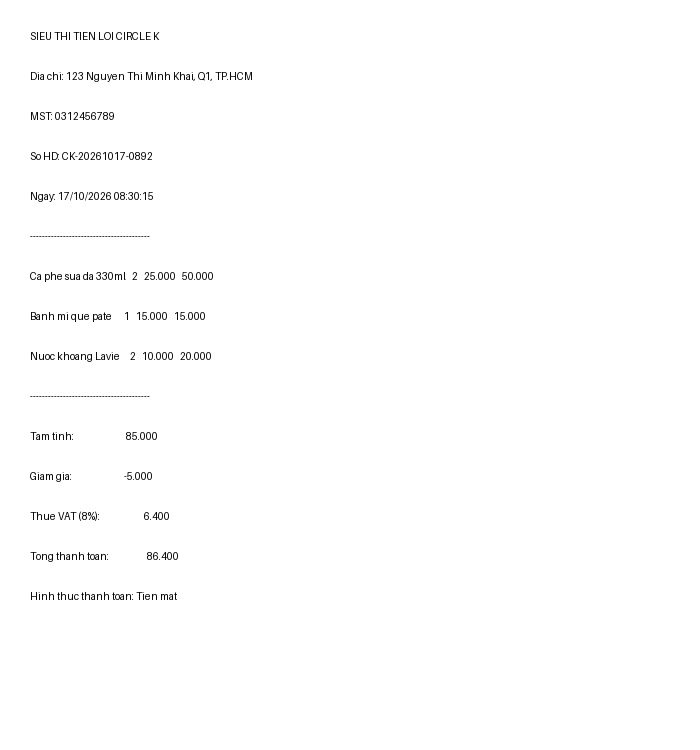
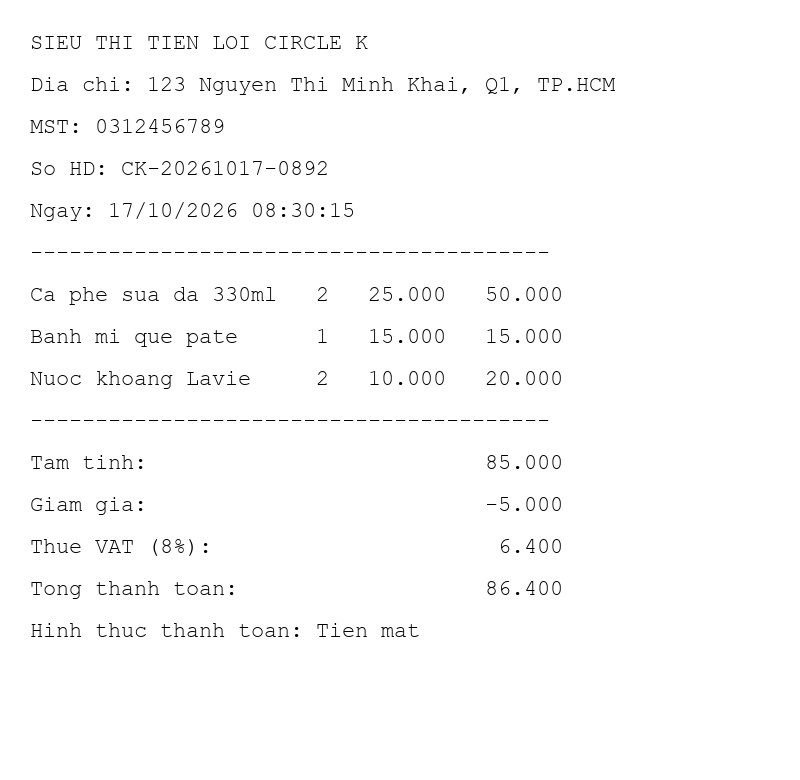
fix(ocr,extraction): fix Windows tessdata path quoting, custom_cmd resolution, and unaccented regex matching

diff --git a/src/receipt_extraction/extraction/regex_baseline.py b/src/receipt_extraction/extraction/regex_baseline.py
@@ -67,14 +67,14 @@ class RegexBaselineExtractor(BaseExtractor):
 
         # 1. Trích xuất Tên cửa hàng (thường là dòng 1 hoặc 2 không chứa số điện thoại / địa chỉ)
         for line in lines[:4]:
-            if not any(k in line.lower() for k in ["địa chỉ", "đ/c", "tel", "sđt", "hotline", "mst", "ngày"]):
+            if not any(k in line.lower() for k in ["địa chỉ", "dia chi", "đ/c", "d/c", "tel", "sđt", "sdt", "hotline", "mst", "ngày", "ngay"]):
                 if len(line) >= 3 and not line.isdigit():
                     data.seller_name = line
                     evidence["seller_name"] = True
                     break
 
         # 2. Trích xuất Địa chỉ
-        addr_pattern = re.compile(r"(?:Địa\s*chỉ|Đ/c|ĐC)\s*[:\.]?\s*(.+)", re.IGNORECASE)
+        addr_pattern = re.compile(r"(?:Địa\s*chỉ|Dia\s*chi|Đ/c|D/c|ĐC)\s*[:\.]?\s*(.+)", re.IGNORECASE)
         for line in lines:
             m = addr_pattern.search(line)
             if m:
@@ -83,7 +83,7 @@ class RegexBaselineExtractor(BaseExtractor):
                 break
 
         # 3. Trích xuất Mã số thuế (10 hoặc 13 chữ số)
-        tax_pattern = re.compile(r"(?:MST|Mã\s*số\s*thuế|M\.S\.T)\s*[:\.]?\s*([0-9]{10}(?:-[0-9]{3})?)", re.IGNORECASE)
+        tax_pattern = re.compile(r"(?:MST|Mã\s*số\s*thuế|Ma\s*so\s*thue|M\.S\.T)\s*[:\.]?\s*([0-9]{10}(?:-[0-9]{3})?)", re.IGNORECASE)
         for line in lines:
             m = tax_pattern.search(line)
             if m:
@@ -92,7 +92,7 @@ class RegexBaselineExtractor(BaseExtractor):
                 break
 
         # 4. Trích xuất Số hóa đơn
-        inv_pattern = re.compile(r"(?:Số\s*(?:HĐ|hóa\s*đơn|phiếu)|HĐ\s*số|Invoice\s*No)\s*[:\.]?\s*([A-Za-z0-9\-_/]+)", re.IGNORECASE)
+        inv_pattern = re.compile(r"(?:Số\s*(?:HĐ|hóa\s*đơn|phiếu)|So\s*(?:HD|hoa\s*don|phieu)|HĐ\s*số|HD\s*so|Invoice\s*No)\s*[:\.]?\s*([A-Za-z0-9\-_/]+)", re.IGNORECASE)
         for line in lines:
             m = inv_pattern.search(line)
             if m:
@@ -116,7 +116,7 @@ class RegexBaselineExtractor(BaseExtractor):
                 break
 
         # 6. Trích xuất Tạm tính
-        subtotal_pattern = re.compile(r"(?:Tạm\s*tính|Cộng\s*tiền\s*hàng|Tiền\s*hàng|Subtotal)[^:\d\n]*[:\.]?\s*([\-]?[\d\.,]+(?:\s*[đĐkKvVnNdD])?)", re.IGNORECASE)
+        subtotal_pattern = re.compile(r"(?:Tạm\s*tính|Tam\s*tinh|Cộng\s*tiền\s*hàng|Cong\s*tien\s*hang|Tiền\s*hàng|Tien\s*hang|Subtotal)[^:\d\n]*[:\.]?\s*([\-]?[\d\.,]+(?:\s*[đĐkKvVnNdD])?)", re.IGNORECASE)
         for line in lines:
             m = subtotal_pattern.search(line)
             if m:
@@ -127,7 +127,7 @@ class RegexBaselineExtractor(BaseExtractor):
                     break
 
         # 7. Trích xuất Giảm giá
-        discount_pattern = re.compile(r"(?:Giảm\s*giá|Chiết\s*khấu|Khuyến\s*mãi|Voucher|Discount)[^:\d\n]*[:\.]?\s*([\-]?[\d\.,]+(?:\s*[đĐkKvVnNdD])?)", re.IGNORECASE)
+        discount_pattern = re.compile(r"(?:Giảm\s*giá|Giam\s*gia|Chiết\s*khấu|Chiet\s*khau|Khuyến\s*mãi|Khuyen\s*mai|Voucher|Discount)[^:\d\n]*[:\.]?\s*([\-]?[\d\.,]+(?:\s*[đĐkKvVnNdD])?)", re.IGNORECASE)
         for line in lines:
             m = discount_pattern.search(line)
             if m:
@@ -139,7 +139,7 @@ class RegexBaselineExtractor(BaseExtractor):
 
         # 8. Trích xuất VAT
         vat_pattern = re.compile(
-            r"(?:Thuế\s*VAT|VAT|Thuế\s*GTGT)(?:\s*\(?\s*\d+(?:[\.,]\d+)?\s*%\s*\)?)?[^:\d\n]*[:\.]?\s*([\-]?[\d\.,]+(?:\s*[đĐkKvVnNdD])?)",
+            r"(?:Thuế\s*VAT|Thue\s*VAT|VAT|Thuế\s*GTGT|Thue\s*GTGT)(?:\s*\(?\s*\d+(?:[\.,]\d+)?\s*%\s*\)?)?[^:\d\n]*[:\.]?\s*([\-]?[\d\.,]+(?:\s*[đĐkKvVnNdD])?)",
             re.IGNORECASE
         )
         for line in lines:
@@ -153,7 +153,7 @@ class RegexBaselineExtractor(BaseExtractor):
 
         # 9. Trích xuất Tổng tiền thanh toán (TOTAL)
         total_pattern = re.compile(
-            r"(?:Tổng\s*thanh\s*toán|Tổng\s*cộng|Tổng\s*tiền|Thanh\s*toán|Phải\s*thu|TOTAL)[^:\d\n]*[:\.]?\s*([\-]?[\d\.,]+(?:\s*[đĐkKvVnNdD])?)",
+            r"(?:Tổng\s*thanh\s*toán|Tong\s*thanh\s*toan|Tổng\s*cộng|Tong\s*cong|Tổng\s*tiền|Tong\s*tien|Thanh\s*toán|Thanh\s*toan|Phải\s*thu|Phai\s*thu|TOTAL)[^:\d\n]*[:\.]?\s*([\-]?[\d\.,]+(?:\s*[đĐkKvVnNdD])?)",
             re.IGNORECASE
         )
         for line in lines:
@@ -166,7 +166,7 @@ class RegexBaselineExtractor(BaseExtractor):
                     break
 
         # 10. Trích xuất Phương thức thanh toán
-        payment_pattern = re.compile(r"(?:Hình\s*thức\s*thanh\s*toán|Phương\s*thức\s*TT|Thanh\s*toán\s*bằng)\s*[:\.]?\s*([A-Za-zÀ-ỹ\s]+)", re.IGNORECASE)
+        payment_pattern = re.compile(r"(?:Hình\s*thức\s*thanh\s*toán|Hinh\s*thuc\s*thanh\s*toan|Phương\s*thức\s*TT|Phuong\s*thuc\s*TT|Thanh\s*toán\s*bằng|Thanh\s*toan\s*bang)\s*[:\.]?\s*([A-Za-zÀ-ỹ\s]+)", re.IGNORECASE)
         for line in lines:
             m = payment_pattern.search(line)
             if m:
@@ -174,7 +174,7 @@ class RegexBaselineExtractor(BaseExtractor):
                 evidence["payment_method"] = True
                 break
         if not data.payment_method:
-            for kw in ["tiền mặt", "chuyển khoản", "thẻ visa", "thẻ master", "momo", "vnpay", "zalopay"]:
+            for kw in ["tiền mặt", "tien mat", "chuyển khoản", "chuyen khoan", "thẻ visa", "the visa", "thẻ master", "the master", "momo", "vnpay", "zalopay"]:
                 if kw in raw_text.lower():
                     data.payment_method = kw.title()
                     evidence["payment_method"] = True

diff --git a/src/receipt_extraction/ocr/tesseract_ocr.py b/src/receipt_extraction/ocr/tesseract_ocr.py
@@ -22,9 +22,9 @@ STANDARD_WINDOWS_TESSERACT_PATHS = [
 
 def resolve_tesseract_cmd(custom_cmd: Optional[str] = None) -> Optional[Path]:
     """Tìm đường dẫn tệp thực thi tesseract.exe linh hoạt."""
-    # 1. Đường dẫn truyền trực tiếp
-    if custom_cmd and Path(custom_cmd).is_file():
-        return Path(custom_cmd)
+    # 1. Đường dẫn truyền trực tiếp (nếu truyền rõ ràng mà không tồn tại thì trả về None ngay)
+    if custom_cmd is not None:
+        return Path(custom_cmd) if Path(custom_cmd).is_file() else None
 
     # 2. Biến môi trường TESSERACT_CMD hoặc file config
     env_cmd = os.getenv("TESSERACT_CMD") or config.ocr.tesseract_cmd
@@ -119,7 +119,9 @@ class TesseractOCREngine(BaseOCREngine):
             import pytesseract
             if self.cmd_path:
                 pytesseract.pytesseract.tesseract_cmd = str(self.cmd_path)
-            config_arg = f'--tessdata-dir "{self.tessdata_dir}"' if self.tessdata_dir else ""
+            if self.tessdata_dir:
+                os.environ["TESSDATA_PREFIX"] = str(self.tessdata_dir)
+            config_arg = f"--tessdata-dir {self.tessdata_dir.as_posix()}" if self.tessdata_dir else ""
             return pytesseract.get_languages(config=config_arg)
         except Exception:
             # Fallback quét các file trong tessdata_dir nếu có
@@ -153,10 +155,12 @@ class TesseractOCREngine(BaseOCREngine):
                 else:
                     return OCRResult(engine_name=self.name, error_message="Định dạng ảnh đầu vào không hợp lệ.")
 
-            # Chuẩn bị cấu hình tesseract
+            # Chuẩn bị cấu hình tesseract (dùng TESSDATA_PREFIX và posix path tránh lỗi quote của shlex trên Windows)
+            if self.tessdata_dir:
+                os.environ["TESSDATA_PREFIX"] = str(self.tessdata_dir)
             extra_config = f"--psm {self.psm}"
             if self.tessdata_dir:
-                extra_config += f' --tessdata-dir "{self.tessdata_dir}"'
+                extra_config += f" --tessdata-dir {self.tessdata_dir.as_posix()}"
 
             # 1. Trích xuất text thô
             raw_text = pytesseract.image_to_string(img, lang=self.lang, config=extra_config)

diff --git a/tests/test_ocr_integration.py b/tests/test_ocr_integration.py
@@ -39,12 +39,21 @@ def test_tesseract_ocr_on_synthetic_receipt_image(tesseract_or_skip):
     """Kiểm tra Tesseract nhận dạng chữ trên ảnh hóa đơn tổng hợp."""
     engine = tesseract_or_skip
     
-    # Tạo ảnh có chữ rõ ràng
+    # Tạo ảnh có chữ rõ ràng với font kích thước đủ lớn cho OCR (24pt)
+    from PIL import ImageFont
     img = Image.new("RGB", (600, 400), color=(255, 255, 255))
     draw = ImageDraw.Draw(img)
-    draw.text((20, 30), "SIEU THI MINI MART", fill=(0, 0, 0))
-    draw.text((20, 70), "Tong thanh toan: 150.000 VND", fill=(0, 0, 0))
-    draw.text((20, 110), "MST: 0319998888", fill=(0, 0, 0))
+    try:
+        font = ImageFont.truetype("arial.ttf", 24)
+    except Exception:
+        try:
+            font = ImageFont.truetype("consola.ttf", 24)
+        except Exception:
+            font = ImageFont.load_default()
+
+    draw.text((20, 30), "SIEU THI MINI MART", fill=(0, 0, 0), font=font)
+    draw.text((20, 80), "Tong thanh toan: 150.000 VND", fill=(0, 0, 0), font=font)
+    draw.text((20, 130), "MST: 0319998888", fill=(0, 0, 0), font=font)
 
     result = engine.recognize(img)
     assert result.error_message is None

diff --git a/scripts/test_pipeline.py b/scripts/test_pipeline.py
@@ -41,14 +41,21 @@ SAMPLE_RECEIPT_TEXT_LINES = [
 
 def create_synthetic_receipt_image(target_path: Path):
     """Tạo ảnh hóa đơn tổng hợp rõ nét phục vụ kiểm thử OCR."""
-    width, height = 700, 750
+    width, height = 800, 780
     img = Image.new("RGB", (width, height), color=(255, 255, 255))
     draw = ImageDraw.Draw(img)
+    try:
+        font = ImageFont.truetype("cour.ttf", 22)
+    except Exception:
+        try:
+            font = ImageFont.truetype("arial.ttf", 22)
+        except Exception:
+            font = ImageFont.load_default()
 
     y = 30
     for line in SAMPLE_RECEIPT_TEXT_LINES:
-        draw.text((30, y), line, fill=(0, 0, 0))
-        y += 40
+        draw.text((30, y), line, fill=(0, 0, 0), font=font)
+        y += 42
 
     target_path.parent.mkdir(parents=True, exist_ok=True)
     img.save(target_path, quality=95)
